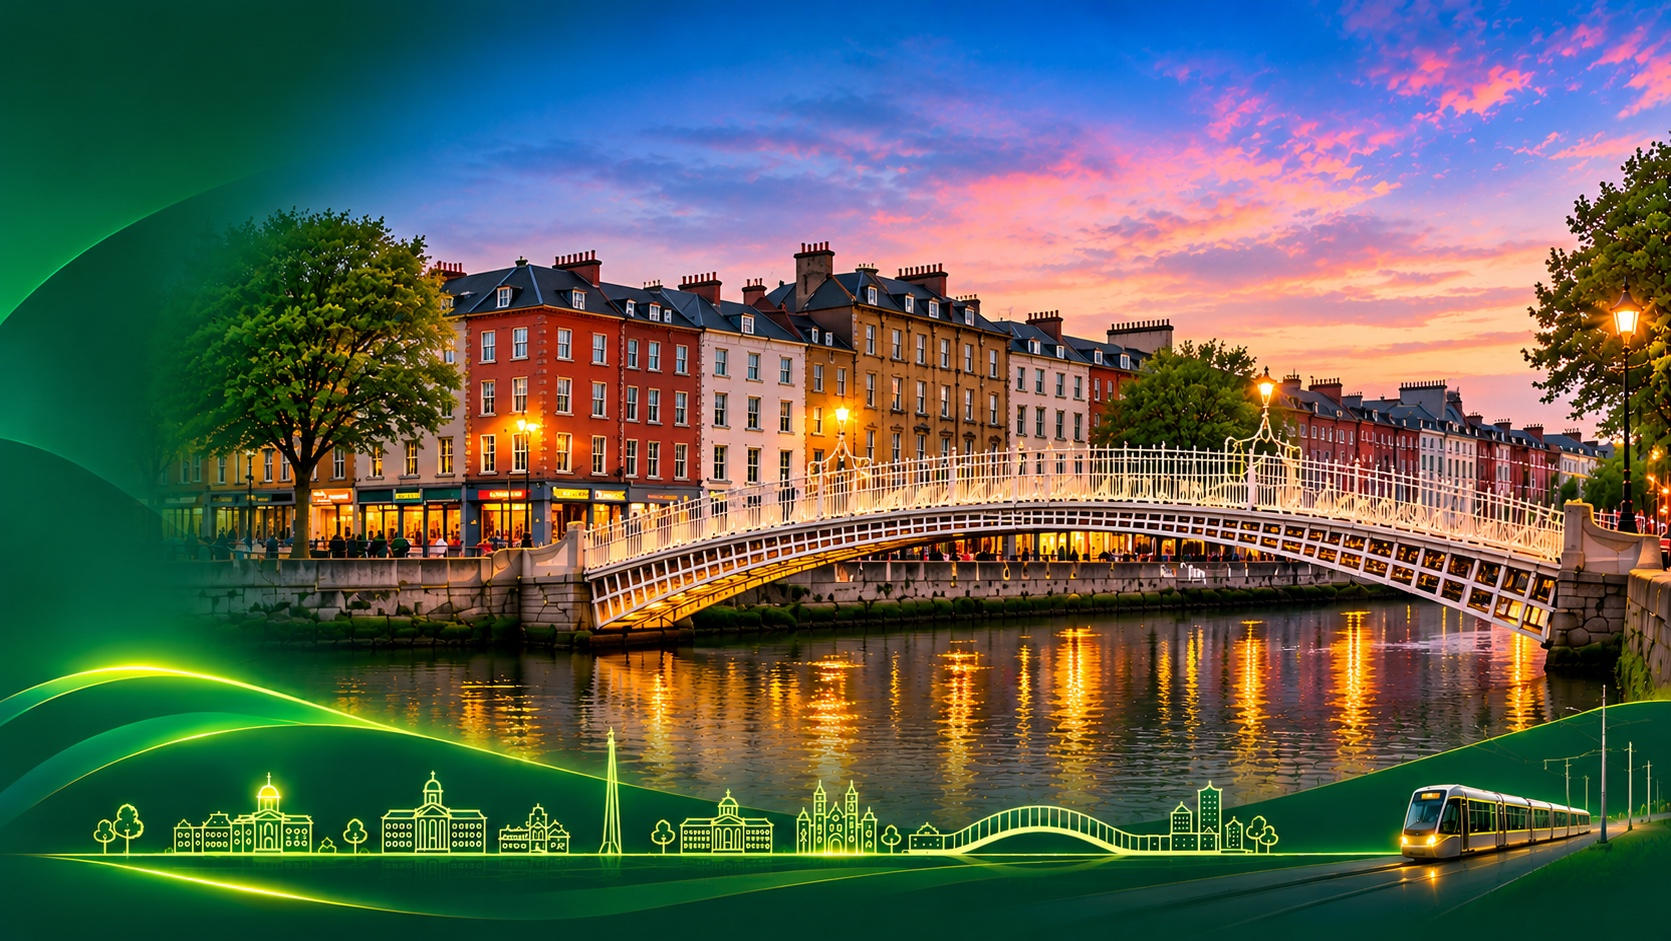
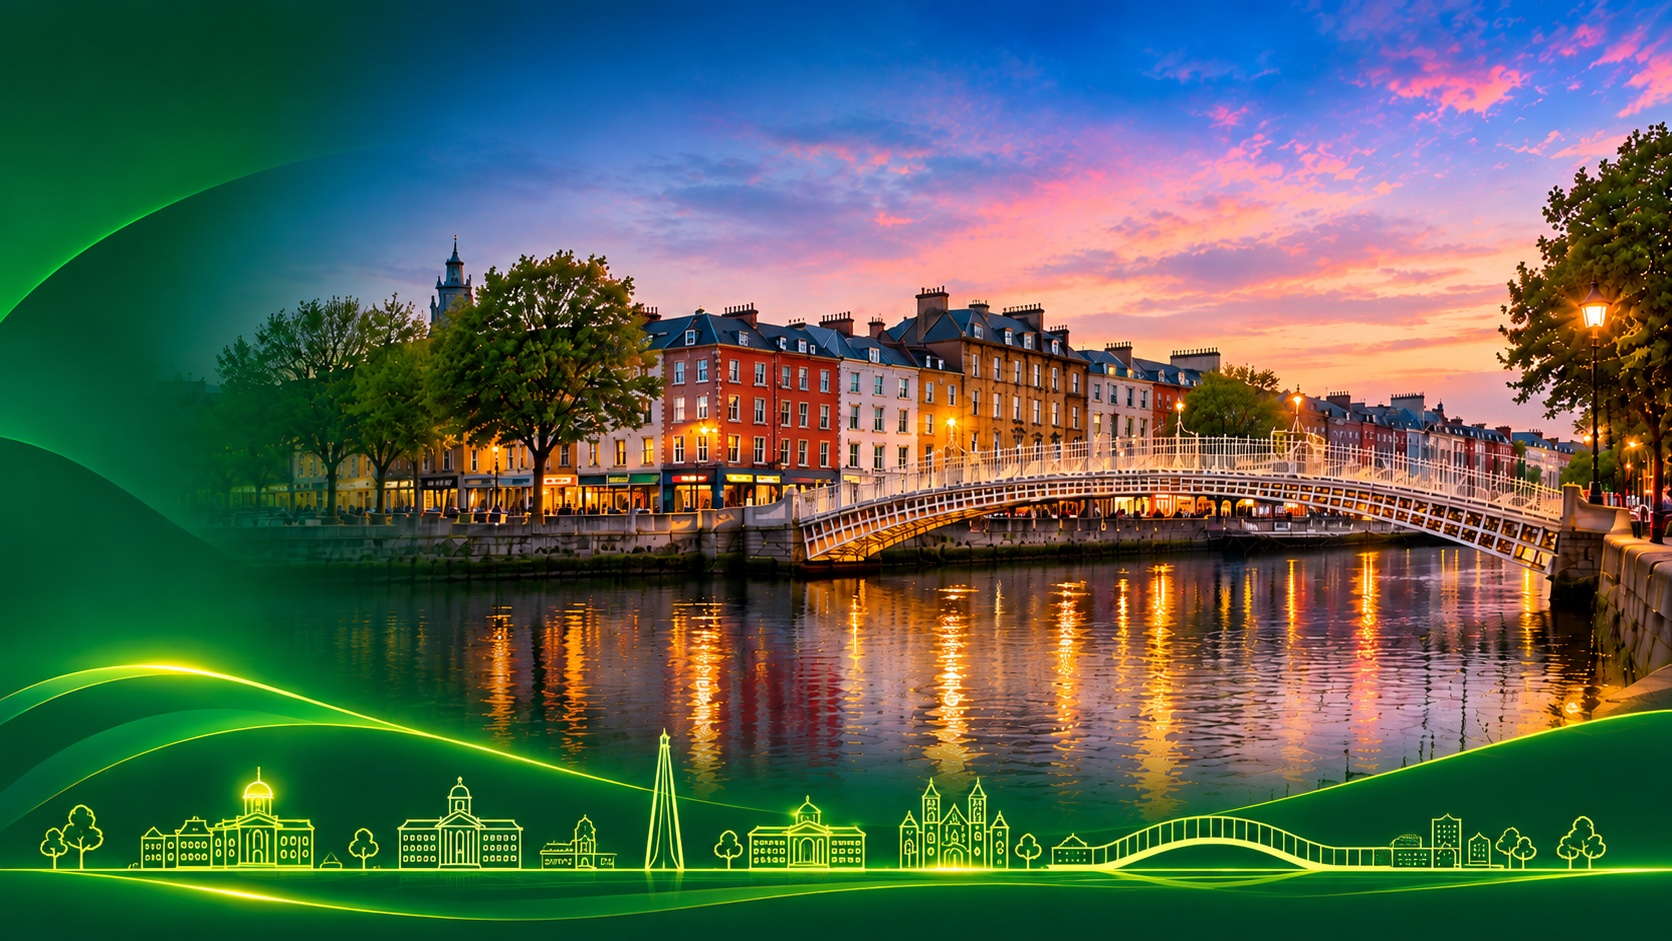
New hero background, tour card bottom left, duplicate shops removed, map clicks set A/B only in the journey planner

diff --git a/Frontend/SiteTour.jsx b/Frontend/SiteTour.jsx
@@ -1,4 +1,4 @@
-import { useEffect, useState } from 'react'
+import { useCallback, useEffect, useRef, useState } from 'react'
 import { createPortal } from 'react-dom'
 import { useLocation, useNavigate } from 'react-router-dom'
 import './SiteTour.css'
@@ -26,7 +26,7 @@ const steps = [
     tip: 'Take the tour any time from “Take a tour” in the header.',
   },
   {
-    path: '/', target: 'home-film', icon: 'film', place: 'Home',
+    path: '/', target: 'home-film', keepClear: '.hf-frame', icon: 'film', place: 'Home',
     title: 'Watch the Dublin introduction',
     description: 'A short film that shows the city and its everyday atmosphere before you arrive.',
   },
@@ -88,8 +88,20 @@ function TourIcon({ name }) {
   )
 }
 
+const GAP = 16
+
+// how much of rectangle a the card would cover if it sat at rectangle b
+function overlap(a, b) {
+  const w = Math.min(a.right, b.right) - Math.max(a.left, b.left)
+  const h = Math.min(a.bottom, b.bottom) - Math.max(a.top, b.top)
+  return w > 0 && h > 0 ? w * h : 0
+}
+
 function SiteTour({ onClose }) {
   const [stepIndex, setStepIndex] = useState(0)
+  // which corner of the screen the card sits in, so it never hides the part of the page being shown
+  const [corner, setCorner] = useState({ v: 'bottom', h: window.innerWidth <= 480 ? 'right' : 'left' })
+  const cardRef = useRef(null)
   const location = useLocation()
   const navigate = useNavigate()
   const step = steps[stepIndex]
@@ -99,19 +111,66 @@ function SiteTour({ onClose }) {
     if (step.path && location.pathname !== step.path) navigate(step.path)
   }, [location.pathname, navigate, step.path])
 
+  // The card sits bottom left (phones: bottom or top, whichever covers less). If it still covers the
+  // highlighted part and that part is small enough, scroll the page so it sits fully above or below the card.
+  const place = useCallback((allowScroll) => {
+    const card = cardRef.current
+    const target = document.querySelector(step.selector || `[data-site-tour="${step.target}"]`)
+    if (!card || !target) return
+    const clear = (step.keepClear && target.querySelector(step.keepClear)) || target
+    const vw = window.innerWidth
+    const vh = window.innerHeight
+    const top = Math.max(GAP, document.querySelector('.navbar')?.getBoundingClientRect().bottom + GAP || GAP)
+    const cw = card.offsetWidth
+    const ch = card.offsetHeight
+    const r = clear.getBoundingClientRect()
+    const seen = { left: r.left, right: r.right, top: Math.max(r.top, 0), bottom: Math.min(r.bottom, vh) }
+    const phone = vw <= 480
+    const spots = []
+    // laptops and tablets: always bottom left. Phones (card spans the width): bottom, or top when that hides less.
+    for (const v of phone ? ['bottom', 'top'] : ['bottom']) {
+      for (const h of phone ? ['right'] : ['left']) {
+        const y = v === 'bottom' ? vh - GAP - ch : top
+        const x = phone || h === 'left' ? GAP : vw - GAP - cw
+        spots.push({ v, h, cover: overlap(seen, { left: x, right: x + cw, top: y, bottom: y + ch }) })
+      }
+    }
+    spots.sort((a, b) => a.cover - b.cover)
+    let best = spots[0]
+    if (best.cover > 0 && allowScroll) {
+      // the card still covers it: scroll so the part ends above the card, or starts below it, whichever is the smaller move
+      const room = vh - top - ch - GAP * 2
+      if (r.height <= room) {
+        const up = r.bottom - (vh - ch - GAP * 2) // card at the bottom
+        const down = r.top - (top + ch + GAP) // card at the top
+        const useBottom = !phone || Math.abs(up) <= Math.abs(down)
+        window.scrollBy({ top: useBottom ? up : down, behavior: 'instant' })
+        best = { v: useBottom ? 'bottom' : 'top', h: phone ? 'right' : 'left' }
+      }
+    }
+    setCorner((c) => (c.v === best.v && c.h === best.h && c.top === top ? c : { v: best.v, h: best.h, top }))
+  }, [step])
+
   useEffect(() => {
     if (!onPage) return undefined
     const target = document.querySelector(step.selector || `[data-site-tour="${step.target}"]`)
     if (!target) return undefined
     target.classList.add('site-tour-highlight')
-    if (!step.selector) {
-      target.scrollIntoView({
-        behavior: window.matchMedia('(prefers-reduced-motion: reduce)').matches ? 'instant' : 'smooth',
-        block: 'center',
-      })
+    const instant = window.matchMedia('(prefers-reduced-motion: reduce)').matches
+    if (!step.selector) target.scrollIntoView({ behavior: instant ? 'instant' : 'smooth', block: 'center' })
+    const timer = setTimeout(() => place(true), instant ? 30 : 650)
+    let idle
+    const onMove = () => { clearTimeout(idle); idle = setTimeout(() => place(false), 150) }
+    window.addEventListener('resize', onMove)
+    window.addEventListener('scroll', onMove, { passive: true })
+    return () => {
+      clearTimeout(timer)
+      clearTimeout(idle)
+      window.removeEventListener('resize', onMove)
+      window.removeEventListener('scroll', onMove)
+      target.classList.remove('site-tour-highlight')
     }
-    return () => target.classList.remove('site-tour-highlight')
-  }, [onPage, step])
+  }, [onPage, step, place])
 
   useEffect(() => {
     function handleKeyDown(event) {
@@ -134,7 +193,9 @@ function SiteTour({ onClose }) {
   return createPortal(
     <aside
       id="site-tour-panel"
-      className={`site-tour${step.assistant ? ' is-assistant' : ''}`}
+      ref={cardRef}
+      className={`site-tour at-${corner.v} at-${corner.h}`}
+      style={corner.v === 'top' ? { top: corner.top } : undefined}
       role="dialog"
       aria-modal="false"
       aria-label="Website tour"

diff --git a/Frontend/SiteTour.css b/Frontend/SiteTour.css
@@ -18,8 +18,9 @@
   font-family: 'DM Sans', sans-serif;
   animation: st-arrive 0.45s cubic-bezier(.2, .8, .2, 1) both;
 }
-/* the assistant step points at the "Ask me" button (bottom right), so the card moves out of its way */
-.site-tour.is-assistant { right: auto; left: max(20px, env(safe-area-inset-left)); }
+/* the tour moves the card to whichever corner keeps the highlighted part of the page in view */
+.site-tour.at-left { right: auto; left: max(20px, env(safe-area-inset-left)); }
+.site-tour.at-top { bottom: auto; top: max(16px, env(safe-area-inset-top)); }
 
 @keyframes st-arrive {
   from { opacity: 0; transform: translateY(18px) scale(.97); }
@@ -237,6 +238,7 @@
 .site-tour-next span { display: inline-block; transition: transform 0.2s; }
 .site-tour-next:hover span { transform: translateX(3px); }
 .site-tour button:focus-visible { outline: 2px solid var(--st-gold); outline-offset: 2px; }
+.site-tour-skip, .site-tour-back { border-radius: 99px; padding-inline: 10px; }
 
 /* ---------- the highlighted part of the page ---------- */
 .site-tour-highlight {
@@ -264,8 +266,8 @@
     width: calc(100vw - 24px);
     border-radius: 18px;
   }
-  /* on phones the assistant step sits at the top so the "Ask me" button stays visible */
-  .site-tour.is-assistant { left: 12px; right: 12px; top: max(12px, env(safe-area-inset-top)); bottom: auto; }
+  .site-tour.at-left { left: 12px; right: 12px; }
+  .site-tour.at-top { top: max(12px, env(safe-area-inset-top)); bottom: auto; }
   .site-tour-body { padding: 16px 18px 2px; }
   .site-tour h2 { font-size: 22px; }
   .site-tour-description { font-size: 14px; }

diff --git a/Frontend/District Profile/App.jsx b/Frontend/District Profile/App.jsx
@@ -275,8 +275,11 @@ export default function App() {
       setTrip((t) => (t[which] && t[which].lat === p.lat && t[which].lng === p.lng ? { ...t, [which]: { ...t[which], label } } : t));
     });
   };
+  // Map clicks only set A and B while the journey planner is on screen (the Journey tab, or the
+  // "Plan a journey" panel before a district is picked). On Places, Rent, Amenities etc. they do nothing.
+  const planning = !selectedId || tab === 'journey';
   const onMapPoint = (p) => {
-    if (trip.from && trip.to) return;
+    if (!planning || (trip.from && trip.to)) return;
     const which = trip.from ? 'to' : 'from';
     setTouring(false);
     setTrip((t) => ({ ...t, [which]: p }));
@@ -288,6 +291,7 @@ export default function App() {
     nameExactly(which, p);
   };
   const onLandmarkPoint = (p) => {
+    if (!planning) return;
     if (trip.from && trip.to) { setTrip((t) => ({ ...t, to: p })); if (tab !== 'journey') setTab('journey'); return; }
     onMapPoint(p);
   };
@@ -373,6 +377,7 @@ export default function App() {
             onHoverPlace={setHoverPlace}
             onPlaceClick={onPlaceClick}
             trip={trip}
+            planning={planning}
             onMapPoint={onMapPoint}
             onLandmarkPoint={onLandmarkPoint}
             onDragPoint={onDragPoint}

diff --git a/Frontend/District Profile/amenityData.js b/Frontend/District Profile/amenityData.js
@@ -80,8 +80,15 @@ export function chainShops(records, profileAmenities) {
 // (public/data, see "source" and "fetched" inside each file).
 let verifiedShops = null;
 let verifiedCounts = null;
+// OpenStreetMap sometimes maps one shop twice (a point and the building outline), so the same chain
+// within ~40 m counts as one shop: one pin on the map and one in the Amenities tab totals.
+const oneEach = (shops) => shops.reduce((out, shop) => {
+  if (!out.some((x) => x.chain === shop.chain && near(x, shop))) out.push(shop);
+  return out;
+}, []);
+
 export function loadVerifiedChainShops() {
-  if (!verifiedShops) verifiedShops = fetch('/data/dublin-chain-shops.json').then((r) => { if (!r.ok) throw new Error(String(r.status)); return r.json(); }).then((d) => d.shops).catch((e) => { verifiedShops = null; throw e; });
+  if (!verifiedShops) verifiedShops = fetch('/data/dublin-chain-shops.json').then((r) => { if (!r.ok) throw new Error(String(r.status)); return r.json(); }).then((d) => oneEach(d.shops)).catch((e) => { verifiedShops = null; throw e; });
   return verifiedShops;
 }
 export function loadVerifiedAmenityCounts() {

diff --git a/Frontend/District Profile/JourneyBaseMap.jsx b/Frontend/District Profile/JourneyBaseMap.jsx
@@ -1191,10 +1191,10 @@ const JourneyBaseMap = forwardRef(function JourneyBaseMap(props, ref) {
   }));
 
   return (
-    <div ref={boxRef} className="district-map jp-scope z-far z-low">
-      <div ref={containerRef} className="jp-route-map" aria-label="Map: click to set start and end points" />
+    <div ref={boxRef} className={`district-map jp-scope z-far z-low${props.planning === false ? ' is-browsing' : ''}`}>
+      <div ref={containerRef} className="jp-route-map" aria-label={props.planning === false ? 'Map of Dublin districts' : 'Map: click to set start and end points'} />
       <div className="jp-map-vignette" aria-hidden="true" />
-      <div ref={hintRef} className="jp-map-hint" aria-live="polite" />
+      <div ref={hintRef} className="jp-map-hint" aria-live="polite" hidden={props.planning === false} />
       <div ref={statusRef} className="jp-amenity-status" role="status" aria-live="polite" hidden />
       <div ref={legendRef} className="jp-map-legend" hidden>
         <span><i className="jp-legend-walk" />Walk</span>

diff --git a/Frontend/pages/HomeHero.jsx b/Frontend/pages/HomeHero.jsx
@@ -1,9 +1,9 @@
 // Homepage hero: "Are you new to Dublin?" - green panel on the left, the Ha'penny Bridge at dusk on the
-// right, a "New to Dublin?" card, glowing waves and a line-art skyline of Dublin with a Luas tram.
+// right, a "New to Dublin?" card, glowing waves and a line-art skyline of Dublin.
 import { Link } from 'react-router-dom'
 import './HomeHero.css'
 
-// Full-bleed artwork: green panel, Liffey and Ha'penny Bridge at sunset, glowing skyline with a Luas
+// Full-bleed artwork: green panel, Liffey and Ha'penny Bridge at sunset, glowing line-art skyline
 const BG = '/images/hero-dublin-bg.jpg'
 
 const ICONS = {

diff --git a/Frontend/District Profile/JourneyBaseMap.css b/Frontend/District Profile/JourneyBaseMap.css
@@ -300,3 +300,8 @@
 @media (max-width: 1100px) {
   .map-toolbar .district-chips .county-toggle { grid-column: span 2; justify-content: center; }
 }
+
+/* Outside the journey planner a map click doesn't set A/B, so no crosshair and no "click the map" hint */
+.district-map.is-browsing .jp-route-map.leaflet-container { cursor: grab; }
+.district-map.is-browsing .jp-route-map.leaflet-container.leaflet-dragging { cursor: grabbing; }
+.district-map.is-browsing .jp-map-hint { display: none; }

diff --git a/Frontend/pages/HomeHero.css b/Frontend/pages/HomeHero.css
@@ -485,7 +485,7 @@
   width: 100%;
   height: 100%;
   object-fit: cover;
-  object-position: 50% 100%; /* keep the skyline and Luas along the bottom */
+  object-position: 50% 100%; /* keep the skyline along the bottom */
   animation: hx-bg-in 1.1s ease-out both;
 }
 .hx-bg-shade { display: none; }
